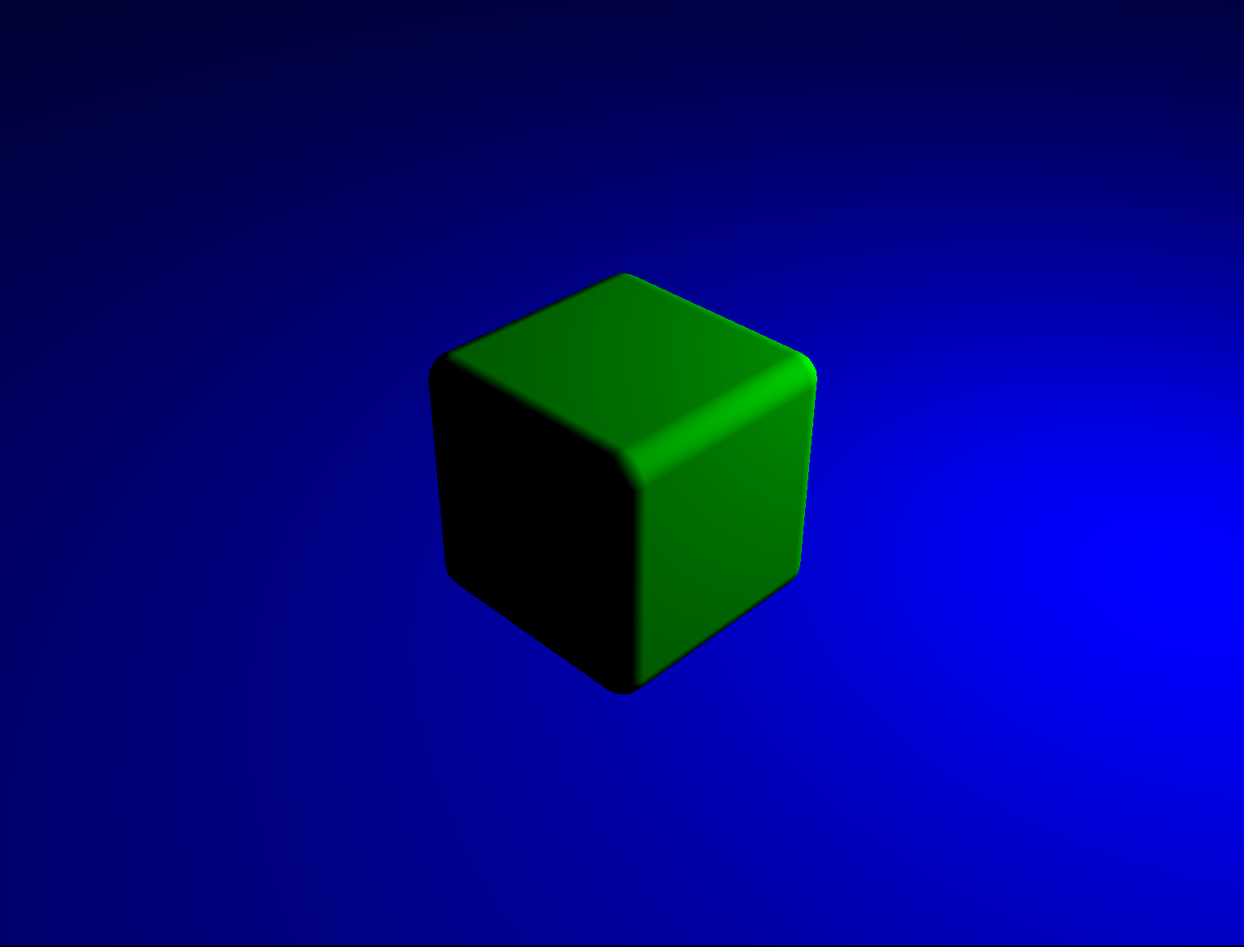
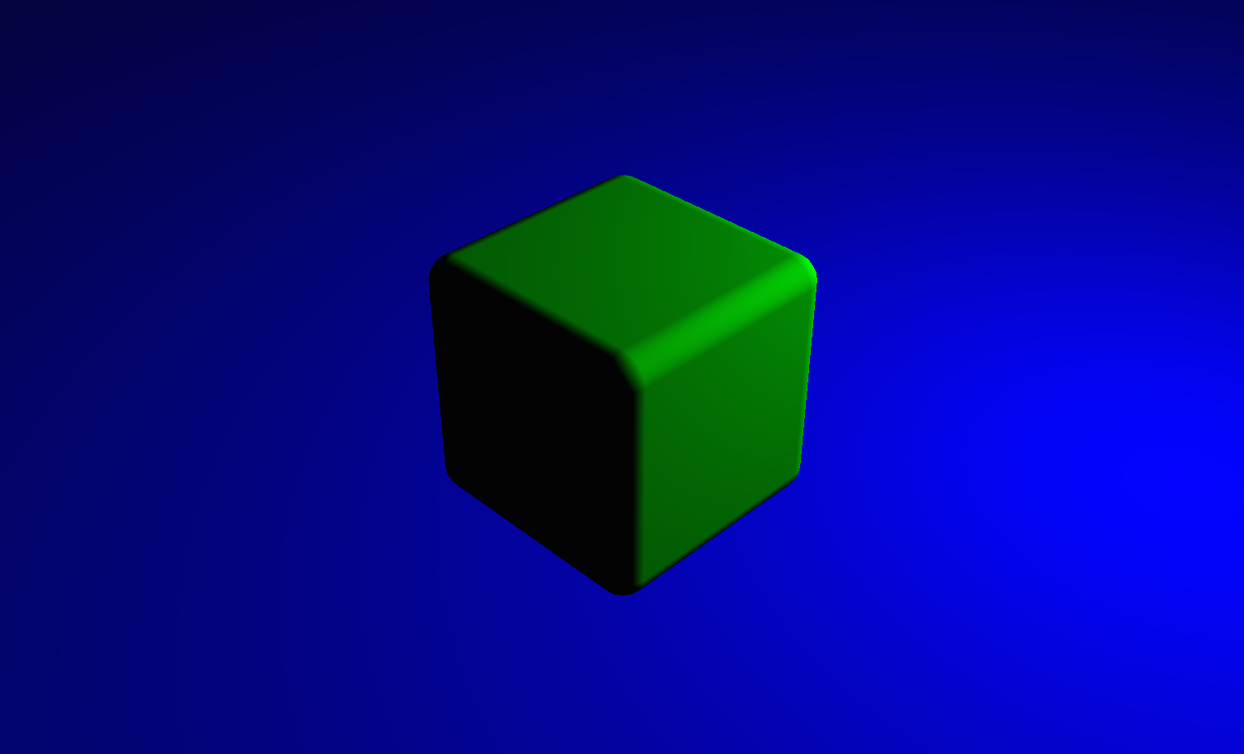
Site updated: 2015-08-23 09:29:17

Changed region(s): [[0.6176, 0.0, 1.0, 0.2124], [0.3397, 0.2124, 0.6794, 0.4854], [0.3397, 0.6067, 0.6485, 0.7887]]

diff --git a/SceneKit/index.html b/SceneKit/index.html
@@ -15,7 +15,7 @@ I am going to walk through the setup of a simple scene to show the power">
 I am going to walk through the setup of a simple scene to show the power">
 <meta property="og:image" content="http://futbalguy.github.io/SceneGraph1.png">
 <meta property="og:image" content="http://futbalguy.github.io/cube.png">
-<meta property="og:updated_time" content="2015-08-23T16:26:42.000Z">
+<meta property="og:updated_time" content="2015-08-23T16:28:13.000Z">
 <meta name="twitter:card" content="summary">
 <meta name="twitter:title" content="SceneKit Tutorial">
 <meta name="twitter:description" content="With iOS 8, Apple released a fantastic framework - SceneKit - that makes it simple to setup a 3D scene in a matter of minutes.
@@ -160,9 +160,8 @@ I am going to walk through the setup of a simple scene to show the power">
 <p>The SCNView class is a subclass of UIView and provides an outlet for your SceneKit content. Aside from having the functionality of a regular view, an SCNView also has several properties and methods relating to the SceneKit content.</p>
 <p>To check that everything is functioning correctly, build and run your app. You will see that you just have a blank white view.</p>
 <h2 id="Setting_Up_Your_Scene">Setting Up Your Scene</h2><p>To render content in an SCNView, you first need to create an SCNScene and assign it to the view. In this scene, you then need to add a camera and at least one light. For this example, you are also going to add a cube for SceneKit to render. Add the following code to the viewDidLoad method:</p>
-<figure class="highlight swift"><table><tr><td class="gutter"><pre><span class="line">1</span><br><span class="line">2</span><br><span class="line">3</span><br><span class="line">4</span><br><span class="line">5</span><br><span class="line">6</span><br><span class="line">7</span><br><span class="line">8</span><br><span class="line">9</span><br><span class="line">10</span><br><span class="line">11</span><br><span class="line">12</span><br><span class="line">13</span><br><span class="line">14</span><br><span class="line">15</span><br><span class="line">16</span><br><span class="line">17</span><br><span class="line">18</span><br><span class="line">19</span><br><span class="line">20</span><br><span class="line">21</span><br><span class="line">22</span><br><span class="line">23</span><br><span class="line">24</span><br><span class="line">25</span><br><span class="line">26</span><br><span class="line">27</span><br><span class="line">28</span><br><span class="line">29</span><br><span class="line">30</span><br><span class="line">31</span><br><span class="line">32</span><br><span class="line">33</span><br><span class="line">34</span><br><span class="line">35</span><br></pre></td><td class="code"><pre><span class="line"><span class="keyword">override</span> <span class="func"><span class="keyword">func</span> <span class="title">viewDidLoad</span><span class="params">()</span></span> &#123;</span><br><span class="line">    <span class="keyword">super</span>.viewDidLoad()</span><br><span class="line"></span><br><span class="line">    <span class="keyword">let</span> sceneView = <span class="type">SCNView</span>(frame: <span class="keyword">self</span>.view.frame)</span><br><span class="line">    <span class="keyword">self</span>.view.addSubview(sceneView)</span><br><span class="line"></span><br><span class="line">    <span class="keyword">let</span> scene = <span class="type">SCNScene</span>()</span><br><span class="line">    sceneView.scene = scene</span><br><span class="line"></span><br><span class="line">    <span class="keyword">let</span> camera = <span class="type">SCNCamera</span>()</span><br><span class="line">    <span class="keyword">let</span> cameraNode = <span class="type">SCNNode</span>()</span><br><span class="line">    cameraNode.camera = camera</span><br><span class="line"></span><br><span class="line">    <span class="keyword">let</span> light = <span class="type">SCNLight</span>()</span><br><span class="line">    light.type = <span class="type">SCNLightTypeOmni</span></span><br><span class="line">    <span class="keyword">let</span> lightNode = <span class="type">SCNNode</span>()</span><br><span class="line">    lightNode.light = light</span><br><span class="line">    lightNode.position = <span class="type">SCNVector3</span>(x: <span class="number">1.5</span>, y: <span class="number">1.5</span>, z: <span class="number">1.5</span>)</span><br><span class="line"></span><br><span class="line">    <span class="keyword">let</span> cubeGeometry = <span class="type">SCNBox</span>(width: <span class="number">1.0</span>, height: <span class="number">1.0</span>, length: <span class="number">1.0</span>, chamferRadius: <span class="number">0.0</span>)</span><br><span class="line">    <span class="keyword">let</span> cubeNode = <span class="type">SCNNode</span>(geometry: cubeGeometry)</span><br><span class="line"></span><br><span class="line">    scene.rootNode.addChildNode(lightNode)</span><br><span class="line">    scene.rootNode.addChildNode(cameraNode)</span><br><span class="line">    scene.rootNode.addChildNode(cubeNode)</span><br><span class="line"></span><br><span class="line">    cameraNode.position = <span class="type">SCNVector3</span>(x: -<span class="number">3.0</span>, y: <span class="number">3.0</span>, z: <span class="number">3.0</span>)</span><br><span class="line"></span><br><span class="line">    <span class="keyword">let</span> constraint = <span class="type">SCNLookAtConstraint</span>(target: cubeNode)</span><br><span class="line">    constraint.gimbalLockEnabled = <span class="literal">true</span></span><br><span class="line">    cameraNode.constraints = [constraint]</span><br><span class="line"></span><br><span class="line">    <span class="comment">//allows user to move camera with touch</span></span><br><span class="line">    sceneView.allowsCameraControl = <span class="literal">true</span></span><br><span class="line">&#125;</span><br></pre></td></tr></table></figure>
+<figure class="highlight swift"><table><tr><td class="gutter"><pre><span class="line">1</span><br><span class="line">2</span><br><span class="line">3</span><br><span class="line">4</span><br><span class="line">5</span><br><span class="line">6</span><br><span class="line">7</span><br><span class="line">8</span><br><span class="line">9</span><br><span class="line">10</span><br><span class="line">11</span><br><span class="line">12</span><br><span class="line">13</span><br><span class="line">14</span><br><span class="line">15</span><br><span class="line">16</span><br><span class="line">17</span><br><span class="line">18</span><br><span class="line">19</span><br><span class="line">20</span><br><span class="line">21</span><br><span class="line">22</span><br><span class="line">23</span><br><span class="line">24</span><br><span class="line">25</span><br><span class="line">26</span><br><span class="line">27</span><br><span class="line">28</span><br><span class="line">29</span><br><span class="line">30</span><br><span class="line">31</span><br><span class="line">32</span><br><span class="line">33</span><br><span class="line">34</span><br><span class="line">35</span><br></pre></td><td class="code"><pre><span class="line"><span class="keyword">override</span> <span class="func"><span class="keyword">func</span> <span class="title">viewDidLoad</span><span class="params">()</span></span> &#123;</span><br><span class="line">    <span class="keyword">super</span>.viewDidLoad()</span><br><span class="line"></span><br><span class="line">    <span class="keyword">let</span> sceneView = <span class="type">SCNView</span>(frame: <span class="keyword">self</span>.view.frame)</span><br><span class="line">    <span class="keyword">self</span>.view.addSubview(sceneView)</span><br><span class="line"></span><br><span class="line">    <span class="keyword">let</span> scene = <span class="type">SCNScene</span>()</span><br><span class="line">    sceneView.scene = scene</span><br><span class="line"></span><br><span class="line">    <span class="keyword">let</span> camera = <span class="type">SCNCamera</span>()</span><br><span class="line">    <span class="keyword">let</span> cameraNode = <span class="type">SCNNode</span>()</span><br><span class="line">    cameraNode.camera = camera</span><br><span class="line"></span><br><span class="line">    <span class="keyword">let</span> light = <span class="type">SCNLight</span>()</span><br><span class="line">    light.type = <span class="type">SCNLightTypeOmni</span></span><br><span class="line">    <span class="keyword">let</span> lightNode = <span class="type">SCNNode</span>()</span><br><span class="line">    lightNode.light = light</span><br><span class="line">    lightNode.position = <span class="type">SCNVector3</span>(x: <span class="number">1.5</span>, y: <span class="number">1.5</span>, z: <span class="number">1.5</span>)</span><br><span class="line"></span><br><span class="line">    <span class="keyword">let</span> cubeGeometry = <span class="type">SCNBox</span>(width: <span class="number">1.0</span>, height: <span class="number">1.0</span>, length: <span class="number">1.0</span>, chamferRadius: <span class="number">0.1</span>)</span><br><span class="line">    <span class="keyword">let</span> cubeNode = <span class="type">SCNNode</span>(geometry: cubeGeometry)</span><br><span class="line"></span><br><span class="line">    scene.rootNode.addChildNode(lightNode)</span><br><span class="line">    scene.rootNode.addChildNode(cameraNode)</span><br><span class="line">    scene.rootNode.addChildNode(cubeNode)</span><br><span class="line"></span><br><span class="line">    cameraNode.position = <span class="type">SCNVector3</span>(x: -<span class="number">3.0</span>, y: <span class="number">3.0</span>, z: <span class="number">3.0</span>)</span><br><span class="line"></span><br><span class="line">    <span class="keyword">let</span> constraint = <span class="type">SCNLookAtConstraint</span>(target: cubeNode)</span><br><span class="line">    constraint.gimbalLockEnabled = <span class="literal">true</span></span><br><span class="line">    cameraNode.constraints = [constraint]</span><br><span class="line"></span><br><span class="line">    <span class="comment">//allows user to move camera with touch</span></span><br><span class="line">    sceneView.allowsCameraControl = <span class="literal">true</span></span><br><span class="line">&#125;</span><br></pre></td></tr></table></figure>
 <p>Build and run your app again, and you will see your cube in all of its 3D glory.</p>
-<p>The position change moves the camera to the left and up. By adding a constraint, with the cube as its target and gimbalLockEnabled set to true, you ensure that the camera will remain parallel with the horizon and viewport, your device’s screen in this case. This is done by disabling rotation along the roll axis, the axis pointing from the camera to the constraint’s target.</p>
 <h2 id="Materials">Materials</h2><p>It’s time to add more realism to the scene with materials and shadows. You’re first going to need another object to cast a shadow onto. Use the following code snippet to create a plane, a flat rectangle, and position it below the cube. Don’t forget to add the new node as a child node to the scene’s root node.</p>
 <figure class="highlight swift"><table><tr><td class="gutter"><pre><span class="line">1</span><br><span class="line">2</span><br><span class="line">3</span><br><span class="line">4</span><br><span class="line">5</span><br><span class="line">6</span><br><span class="line">7</span><br><span class="line">8</span><br><span class="line">9</span><br><span class="line">10</span><br><span class="line">11</span><br><span class="line">12</span><br><span class="line">13</span><br><span class="line">14</span><br><span class="line">15</span><br></pre></td><td class="code"><pre><span class="line"><span class="keyword">override</span> <span class="func"><span class="keyword">func</span> <span class="title">viewDidLoad</span><span class="params">()</span></span> &#123;</span><br><span class="line">    ...</span><br><span class="line">    <span class="keyword">let</span> cubeGeometry = <span class="type">SCNBox</span>(width: <span class="number">1.0</span>, height: <span class="number">1.0</span>, length: <span class="number">1.0</span>, chamferRadius: <span class="number">0.1</span>)</span><br><span class="line">    <span class="keyword">let</span> cubeNode = <span class="type">SCNNode</span>(geometry: cubeGeometry)</span><br><span class="line"></span><br><span class="line">    <span class="keyword">let</span> planeGeometry = <span class="type">SCNPlane</span>(width: <span class="number">100.0</span>, height: <span class="number">100.0</span>)</span><br><span class="line">    <span class="keyword">let</span> planeNode = <span class="type">SCNNode</span>(geometry: planeGeometry)</span><br><span class="line">    planeNode.eulerAngles = <span class="type">SCNVector3</span>(x: <span class="type">GLKMathDegreesToRadians</span>(-<span class="number">90</span>), y: <span class="number">0</span>, z: <span class="number">0</span>)</span><br><span class="line">    planeNode.position = <span class="type">SCNVector3</span>(x: <span class="number">0</span>, y: -<span class="number">0.5</span>, z: <span class="number">0</span>)</span><br><span class="line">    ...</span><br><span class="line">    scene.rootNode.addChildNode(lightNode)</span><br><span class="line">    scene.rootNode.addChildNode(cameraNode)</span><br><span class="line">    scene.rootNode.addChildNode(cubeNode)</span><br><span class="line">    scene.rootNode.addChildNode(planeNode)</span><br><span class="line">&#125;</span><br></pre></td></tr></table></figure>
 <p>Next, add a material to the cube and the plane. For this example, you are going to give the cube and the plane a solid color, red and green respectively. Add the following lines to the viewDidLoad method to create these materials.</p>
@@ -173,7 +172,7 @@ I am going to walk through the setup of a simple scene to show the power">
       
     </div>
     <footer class="article-footer">
-      <a data-url="http://futbalguy.github.io/SceneKit/" data-id="cidopjj7c0011qypff1o7ixsy" class="article-share-link">Share</a>
+      <a data-url="http://futbalguy.github.io/SceneKit/" data-id="cidopmj7p0011shpf8uec4sgf" class="article-share-link">Share</a>
       
       
   <ul class="article-tag-list"><li class="article-tag-list-item"><a class="article-tag-list-link" href="/tags/Mobile-Development/">Mobile Development</a></li><li class="article-tag-list-item"><a class="article-tag-list-link" href="/tags/SceneKit/">SceneKit</a></li><li class="article-tag-list-item"><a class="article-tag-list-link" href="/tags/Swift/">Swift</a></li><li class="article-tag-list-item"><a class="article-tag-list-link" href="/tags/iOS/">iOS</a></li></ul>

diff --git a/index.html b/index.html
@@ -147,7 +147,7 @@
       
     </div>
     <footer class="article-footer">
-      <a data-url="http://futbalguy.github.io/SceneKit/" data-id="cidopjj7c0011qypff1o7ixsy" class="article-share-link">Share</a>
+      <a data-url="http://futbalguy.github.io/SceneKit/" data-id="cidopmj7p0011shpf8uec4sgf" class="article-share-link">Share</a>
       
       
   <ul class="article-tag-list"><li class="article-tag-list-item"><a class="article-tag-list-link" href="/tags/Mobile-Development/">Mobile Development</a></li><li class="article-tag-list-item"><a class="article-tag-list-link" href="/tags/SceneKit/">SceneKit</a></li><li class="article-tag-list-item"><a class="article-tag-list-link" href="/tags/Swift/">Swift</a></li><li class="article-tag-list-item"><a class="article-tag-list-link" href="/tags/iOS/">iOS</a></li></ul>
@@ -206,7 +206,7 @@
       
     </div>
     <footer class="article-footer">
-      <a data-url="http://futbalguy.github.io/Javascript-Pseudo-Classical-Subclassing/" data-id="cidopjj7g001aqypfrvuno1om" class="article-share-link">Share</a>
+      <a data-url="http://futbalguy.github.io/Javascript-Pseudo-Classical-Subclassing/" data-id="cidopmj7t001ashpfoqvy5osc" class="article-share-link">Share</a>
       
       
   <ul class="article-tag-list"><li class="article-tag-list-item"><a class="article-tag-list-link" href="/tags/Design-Patterns/">Design Patterns</a></li><li class="article-tag-list-item"><a class="article-tag-list-link" href="/tags/Javascript/">Javascript</a></li><li class="article-tag-list-item"><a class="article-tag-list-link" href="/tags/Web-Development/">Web Development</a></li></ul>
@@ -271,7 +271,7 @@
       
     </div>
     <footer class="article-footer">
-      <a data-url="http://futbalguy.github.io/Javascript-Design-Patterns/" data-id="cidopjj7j001fqypfu4fhxoag" class="article-share-link">Share</a>
+      <a data-url="http://futbalguy.github.io/Javascript-Design-Patterns/" data-id="cidopmj7w001fshpfwabfy06i" class="article-share-link">Share</a>
       
       
   <ul class="article-tag-list"><li class="article-tag-list-item"><a class="article-tag-list-link" href="/tags/Design-Patterns/">Design Patterns</a></li><li class="article-tag-list-item"><a class="article-tag-list-link" href="/tags/Javascript/">Javascript</a></li><li class="article-tag-list-item"><a class="article-tag-list-link" href="/tags/Web-Development/">Web Development</a></li></ul>
@@ -332,7 +332,7 @@
       
     </div>
     <footer class="article-footer">
-      <a data-url="http://futbalguy.github.io/custom-mac-terminal-bash-colors/" data-id="cidopjj76000pqypf921y2ab1" class="article-share-link">Share</a>
+      <a data-url="http://futbalguy.github.io/custom-mac-terminal-bash-colors/" data-id="cidopmj7c000pshpfm4fsftzf" class="article-share-link">Share</a>
       
       
   <ul class="article-tag-list"><li class="article-tag-list-item"><a class="article-tag-list-link" href="/tags/Bash/">Bash</a></li><li class="article-tag-list-item"><a class="article-tag-list-link" href="/tags/Web-Development/">Web Development</a></li></ul>
@@ -393,7 +393,7 @@
       
     </div>
     <footer class="article-footer">
-      <a data-url="http://futbalguy.github.io/storing-images-in-firebase/" data-id="cidopjj6v000aqypfghtrqlbm" class="article-share-link">Share</a>
+      <a data-url="http://futbalguy.github.io/storing-images-in-firebase/" data-id="cidopmj71000ashpfo48fmt9s" class="article-share-link">Share</a>
       
       
   <ul class="article-tag-list"><li class="article-tag-list-item"><a class="article-tag-list-link" href="/tags/Firebase/">Firebase</a></li><li class="article-tag-list-item"><a class="article-tag-list-link" href="/tags/Full-Stack/">Full-Stack</a></li><li class="article-tag-list-item"><a class="article-tag-list-link" href="/tags/Javascript/">Javascript</a></li><li class="article-tag-list-item"><a class="article-tag-list-link" href="/tags/Web-Development/">Web Development</a></li></ul>
@@ -453,7 +453,7 @@
       
     </div>
     <footer class="article-footer">
-      <a data-url="http://futbalguy.github.io/bookshelf-js-orm/" data-id="cidopjj78000tqypf7gjg6j6k" class="article-share-link">Share</a>
+      <a data-url="http://futbalguy.github.io/bookshelf-js-orm/" data-id="cidopmj7f000tshpfie8j7ucm" class="article-share-link">Share</a>
       
       
   <ul class="article-tag-list"><li class="article-tag-list-item"><a class="article-tag-list-link" href="/tags/Bookshelf-js/">Bookshelf.js</a></li><li class="article-tag-list-item"><a class="article-tag-list-link" href="/tags/Full-Stack/">Full-Stack</a></li><li class="article-tag-list-item"><a class="article-tag-list-link" href="/tags/Javascript/">Javascript</a></li><li class="article-tag-list-item"><a class="article-tag-list-link" href="/tags/SQL/">SQL</a></li><li class="article-tag-list-item"><a class="article-tag-list-link" href="/tags/Web-Development/">Web Development</a></li></ul>
@@ -512,7 +512,7 @@
       
     </div>
     <footer class="article-footer">
-      <a data-url="http://futbalguy.github.io/expressjs-session-tutorial/" data-id="cidopjj72000hqypfmziag79h" class="article-share-link">Share</a>
+      <a data-url="http://futbalguy.github.io/expressjs-session-tutorial/" data-id="cidopmj76000hshpf3dcq3dde" class="article-share-link">Share</a>
       
       
   <ul class="article-tag-list"><li class="article-tag-list-item"><a class="article-tag-list-link" href="/tags/ExpressJS/">ExpressJS</a></li><li class="article-tag-list-item"><a class="article-tag-list-link" href="/tags/Full-Stack/">Full-Stack</a></li><li class="article-tag-list-item"><a class="article-tag-list-link" href="/tags/Javascript/">Javascript</a></li><li class="article-tag-list-item"><a class="article-tag-list-link" href="/tags/Node-js/">Node.js</a></li><li class="article-tag-list-item"><a class="article-tag-list-link" href="/tags/Web-Development/">Web Development</a></li></ul>
@@ -579,7 +579,7 @@
       
     </div>
     <footer class="article-footer">
-      <a data-url="http://futbalguy.github.io/super-javascript-developer-tools/" data-id="cidopjj6o0001qypftydsqgle" class="article-share-link">Share</a>
+      <a data-url="http://futbalguy.github.io/super-javascript-developer-tools/" data-id="cidopmj6t0001shpfkd7t6lhz" class="article-share-link">Share</a>
       
       
   <ul class="article-tag-list"><li class="article-tag-list-item"><a class="article-tag-list-link" href="/tags/Developer-Tools/">Developer Tools</a></li><li class="article-tag-list-item"><a class="article-tag-list-link" href="/tags/Full-Stack/">Full-Stack</a></li><li class="article-tag-list-item"><a class="article-tag-list-link" href="/tags/Javascript/">Javascript</a></li><li class="article-tag-list-item"><a class="article-tag-list-link" href="/tags/Web-Development/">Web Development</a></li></ul>
@@ -635,7 +635,7 @@
       
     </div>
     <footer class="article-footer">
-      <a data-url="http://futbalguy.github.io/hello-world-1/" data-id="cidopjj6y000gqypfj24k8ii2" class="article-share-link">Share</a>
+      <a data-url="http://futbalguy.github.io/hello-world-1/" data-id="cidopmj74000gshpfbni4trbl" class="article-share-link">Share</a>
       
       
     </footer>

diff --git a/bookshelf-js-orm/index.html b/bookshelf-js-orm/index.html
@@ -168,7 +168,7 @@ Instead of writing SQL queries, we chose to interface with MySQL through a devel
       
     </div>
     <footer class="article-footer">
-      <a data-url="http://futbalguy.github.io/bookshelf-js-orm/" data-id="cidopjj78000tqypf7gjg6j6k" class="article-share-link">Share</a>
+      <a data-url="http://futbalguy.github.io/bookshelf-js-orm/" data-id="cidopmj7f000tshpfie8j7ucm" class="article-share-link">Share</a>
       
       
   <ul class="article-tag-list"><li class="article-tag-list-item"><a class="article-tag-list-link" href="/tags/Bookshelf-js/">Bookshelf.js</a></li><li class="article-tag-list-item"><a class="article-tag-list-link" href="/tags/Full-Stack/">Full-Stack</a></li><li class="article-tag-list-item"><a class="article-tag-list-link" href="/tags/Javascript/">Javascript</a></li><li class="article-tag-list-item"><a class="article-tag-list-link" href="/tags/SQL/">SQL</a></li><li class="article-tag-list-item"><a class="article-tag-list-link" href="/tags/Web-Development/">Web Development</a></li></ul>

diff --git a/expressjs-session-tutorial/index.html b/expressjs-session-tutorial/index.html
@@ -158,7 +158,7 @@
       
     </div>
     <footer class="article-footer">
-      <a data-url="http://futbalguy.github.io/expressjs-session-tutorial/" data-id="cidopjj72000hqypfmziag79h" class="article-share-link">Share</a>
+      <a data-url="http://futbalguy.github.io/expressjs-session-tutorial/" data-id="cidopmj76000hshpf3dcq3dde" class="article-share-link">Share</a>
       
       
   <ul class="article-tag-list"><li class="article-tag-list-item"><a class="article-tag-list-link" href="/tags/ExpressJS/">ExpressJS</a></li><li class="article-tag-list-item"><a class="article-tag-list-link" href="/tags/Full-Stack/">Full-Stack</a></li><li class="article-tag-list-item"><a class="article-tag-list-link" href="/tags/Javascript/">Javascript</a></li><li class="article-tag-list-item"><a class="article-tag-list-link" href="/tags/Node-js/">Node.js</a></li><li class="article-tag-list-item"><a class="article-tag-list-link" href="/tags/Web-Development/">Web Development</a></li></ul>

diff --git a/storing-images-in-firebase/index.html b/storing-images-in-firebase/index.html
@@ -169,7 +169,7 @@ We picked Firebase in order to offload work from our own server. We also just wa
       
     </div>
     <footer class="article-footer">
-      <a data-url="http://futbalguy.github.io/storing-images-in-firebase/" data-id="cidopjj6v000aqypfghtrqlbm" class="article-share-link">Share</a>
+      <a data-url="http://futbalguy.github.io/storing-images-in-firebase/" data-id="cidopmj71000ashpfo48fmt9s" class="article-share-link">Share</a>
       
       
   <ul class="article-tag-list"><li class="article-tag-list-item"><a class="article-tag-list-link" href="/tags/Firebase/">Firebase</a></li><li class="article-tag-list-item"><a class="article-tag-list-link" href="/tags/Full-Stack/">Full-Stack</a></li><li class="article-tag-list-item"><a class="article-tag-list-link" href="/tags/Javascript/">Javascript</a></li><li class="article-tag-list-item"><a class="article-tag-list-link" href="/tags/Web-Development/">Web Development</a></li></ul>

diff --git a/super-javascript-developer-tools/index.html b/super-javascript-developer-tools/index.html
@@ -200,7 +200,7 @@ I recommend these Super JavaScript Development Tool">
       
     </div>
     <footer class="article-footer">
-      <a data-url="http://futbalguy.github.io/super-javascript-developer-tools/" data-id="cidopjj6o0001qypftydsqgle" class="article-share-link">Share</a>
+      <a data-url="http://futbalguy.github.io/super-javascript-developer-tools/" data-id="cidopmj6t0001shpfkd7t6lhz" class="article-share-link">Share</a>
       
       
   <ul class="article-tag-list"><li class="article-tag-list-item"><a class="article-tag-list-link" href="/tags/Developer-Tools/">Developer Tools</a></li><li class="article-tag-list-item"><a class="article-tag-list-link" href="/tags/Full-Stack/">Full-Stack</a></li><li class="article-tag-list-item"><a class="article-tag-list-link" href="/tags/Javascript/">Javascript</a></li><li class="article-tag-list-item"><a class="article-tag-list-link" href="/tags/Web-Development/">Web Development</a></li></ul>

diff --git a/Javascript-Design-Patterns/index.html b/Javascript-Design-Patterns/index.html
@@ -175,7 +175,7 @@ Why learn Design Patterns?A pattern is a reusabl">
       
     </div>
     <footer class="article-footer">
-      <a data-url="http://futbalguy.github.io/Javascript-Design-Patterns/" data-id="cidopjj7j001fqypfu4fhxoag" class="article-share-link">Share</a>
+      <a data-url="http://futbalguy.github.io/Javascript-Design-Patterns/" data-id="cidopmj7w001fshpfwabfy06i" class="article-share-link">Share</a>
       
       
   <ul class="article-tag-list"><li class="article-tag-list-item"><a class="article-tag-list-link" href="/tags/Design-Patterns/">Design Patterns</a></li><li class="article-tag-list-item"><a class="article-tag-list-link" href="/tags/Javascript/">Javascript</a></li><li class="article-tag-list-item"><a class="article-tag-list-link" href="/tags/Web-Development/">Web Development</a></li></ul>

diff --git a/Javascript-Pseudo-Classical-Subclassing/index.html b/Javascript-Pseudo-Classical-Subclassing/index.html
@@ -147,7 +147,7 @@
       
     </div>
     <footer class="article-footer">
-      <a data-url="http://futbalguy.github.io/Javascript-Pseudo-Classical-Subclassing/" data-id="cidopjj7g001aqypfrvuno1om" class="article-share-link">Share</a>
+      <a data-url="http://futbalguy.github.io/Javascript-Pseudo-Classical-Subclassing/" data-id="cidopmj7t001ashpfoqvy5osc" class="article-share-link">Share</a>
       
       
   <ul class="article-tag-list"><li class="article-tag-list-item"><a class="article-tag-list-link" href="/tags/Design-Patterns/">Design Patterns</a></li><li class="article-tag-list-item"><a class="article-tag-list-link" href="/tags/Javascript/">Javascript</a></li><li class="article-tag-list-item"><a class="article-tag-list-link" href="/tags/Web-Development/">Web Development</a></li></ul>

diff --git a/custom-mac-terminal-bash-colors/index.html b/custom-mac-terminal-bash-colors/index.html
@@ -159,7 +159,7 @@ The default mostly-white wall of text can be hard on the eyes and actually kind 
       
     </div>
     <footer class="article-footer">
-      <a data-url="http://futbalguy.github.io/custom-mac-terminal-bash-colors/" data-id="cidopjj76000pqypf921y2ab1" class="article-share-link">Share</a>
+      <a data-url="http://futbalguy.github.io/custom-mac-terminal-bash-colors/" data-id="cidopmj7c000pshpfm4fsftzf" class="article-share-link">Share</a>
       
       
   <ul class="article-tag-list"><li class="article-tag-list-item"><a class="article-tag-list-link" href="/tags/Bash/">Bash</a></li><li class="article-tag-list-item"><a class="article-tag-list-link" href="/tags/Web-Development/">Web Development</a></li></ul>

diff --git a/about/index.html b/about/index.html
@@ -140,7 +140,7 @@ Full-Stack web: I have deployed projects using modern front-end">
       
     </div>
     <footer class="article-footer">
-      <a data-url="http://futbalguy.github.io/about/index.html" data-id="cidopjj6d0000qypf2ezzoq8v" class="article-share-link">Share</a>
+      <a data-url="http://futbalguy.github.io/about/index.html" data-id="cidopmj6h0000shpfxevgtuyg" class="article-share-link">Share</a>
       
       
     </footer>

diff --git a/hello-world-1/index.html b/hello-world-1/index.html
@@ -142,7 +142,7 @@
       
     </div>
     <footer class="article-footer">
-      <a data-url="http://futbalguy.github.io/hello-world-1/" data-id="cidopjj6y000gqypfj24k8ii2" class="article-share-link">Share</a>
+      <a data-url="http://futbalguy.github.io/hello-world-1/" data-id="cidopmj74000gshpfbni4trbl" class="article-share-link">Share</a>
       
       
     </footer>
